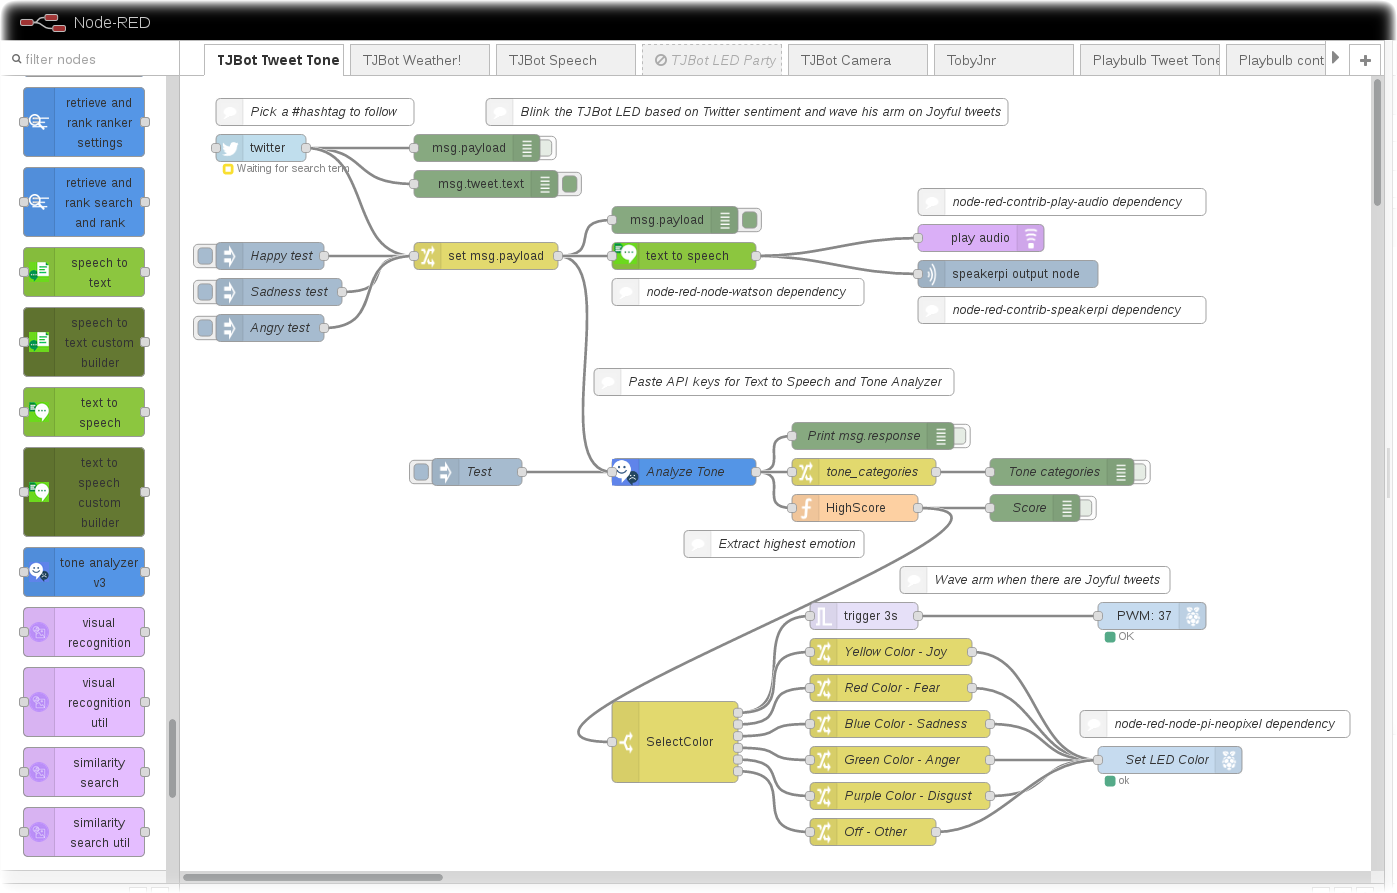
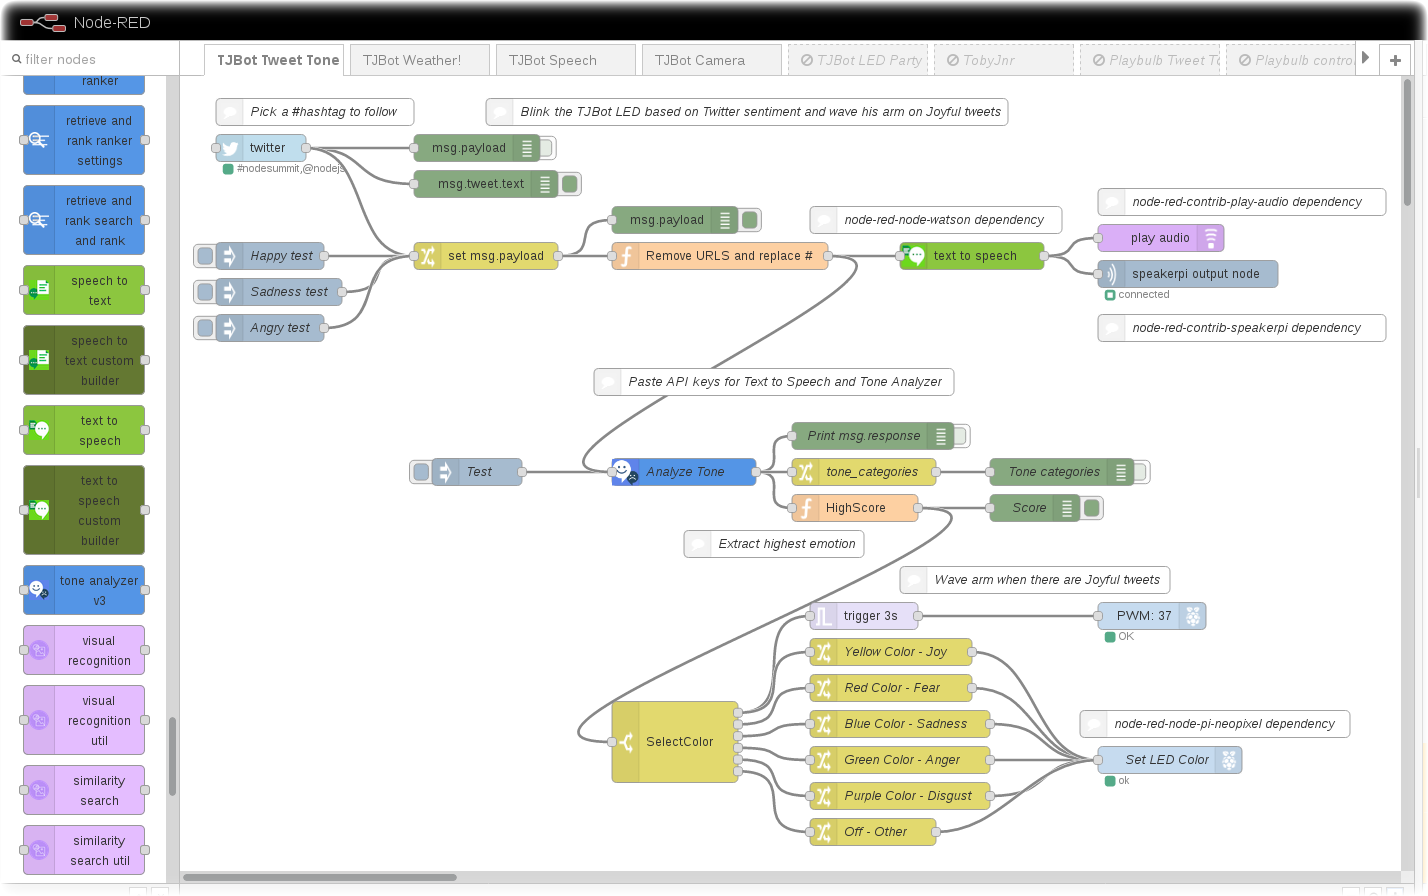
Say HashTag not # and remove URLs

diff --git a/README.md b/README.md
@@ -1,6 +1,6 @@
 # TJBot Node-RED Examples
-These TJBot Node-RED flows are an easy way to get started with bringing TJBot to Life
-Node-RED is a great way to teach students about programming without dropping them down into Node.js code.
+These TJBot Node-RED flows are an easy way to get started with bringing TJBot to Life.
+Node-RED is a great way to teach developers about programming without dropping them down into Node.js code.
 
 These TJBot Node-RED recipes showcase:
 * Twitter Tone Analysis (blinks the LED colors and waves his arm on joyful tweets).
@@ -9,7 +9,7 @@ These TJBot Node-RED recipes showcase:
 * TJBot LED Party is a simple flow that randomly generates colors / blinks the TJBot NeoPixel
 * Watson Visual Recognition Image Classification and Text Extraction using a Pi Camera 
 
-There are screenshots posted so you can see the Node-RED flows in the Pictures directory
+There are screenshots posted so you can see the Node-RED flows in the Pictures directory.
 
 If you're interested in trying these recipes on your TJBot / Raspberry Pi, find them here:
 https://github.com/johnwalicki/TJBot-Node-RED/flows
@@ -17,7 +17,7 @@ https://github.com/johnwalicki/TJBot-Node-RED/flows
 ## Node-RED flows in this repository:
 This flow receives a Twitter feed and calls Tone Analyzer
 ![TJBot Twitter Tone Analysis flow](/pictures/TJBotTweetToneAnalysisBlinkLEDWave.png?raw=true "TJBot Twitter Analyzer flow")
-This flow records speech from the browser microphone and controls the LED color and waves his arm
+This flow records speech from the browser microphone and controls the LED color and waves his arm.
 ![TJBot Speech to Text Control the LED color and Wave flow](/pictures/TJBotSetColorWaveviaSpeechCommand.png?raw=true "TJBot Speech to Text flow")
 This flow announces the current Weather Conditions using Text to Speech.
 ![TJBot Announce the Weather conditions using Text to Speech flow](/pictures/TJBotWeatherForecastTTSAnnouncements.png?raw=true "TJBot Speech to Text flow")
@@ -25,9 +25,9 @@ TJBot loves to party so I created a simple flow that randomly generates colors a
 ![TJBot LED Party flow](/pictures/TJBotLEDParty.png?raw=true "TJBot LED Party flow")
 I've taught TJBot to read and identify images by using Watson Visual Recognition and Text Extraction.
 ![TJBot Visual Recognition Image Classification Text Extraction flow](/pictures/TJBot-CameraFlow.png?raw=true "TJBot Watson Vision flow")
-A browser screenshot of the "TJBot Cam" Node-RED Dashboard that shows Image Classification
+A browser screenshot of the "TJBot Cam" Node-RED Dashboard that shows Image Classification.
 ![TJBot Visual Recognition Image Classification Node-RED Dashboard](/pictures/TJBot-CameraResults-racecar.png?raw=true "TJBot Node-RED Dashboard Racecar")
-A browser screenshot of the "TJBot Cam" Node-RED Dashboard that shows Text Extraction
+A browser screenshot of the "TJBot Cam" Node-RED Dashboard that shows Text Extraction.
 ![TJBot Visual Recognition Image Classification Node-RED Dashboard](/pictures/TJBot-CameraResults-Party.png?raw=true "TJBot Node-RED Dashboard Party Text Extraction")
 
 ## Node-RED Dependencies and Install Instructions
